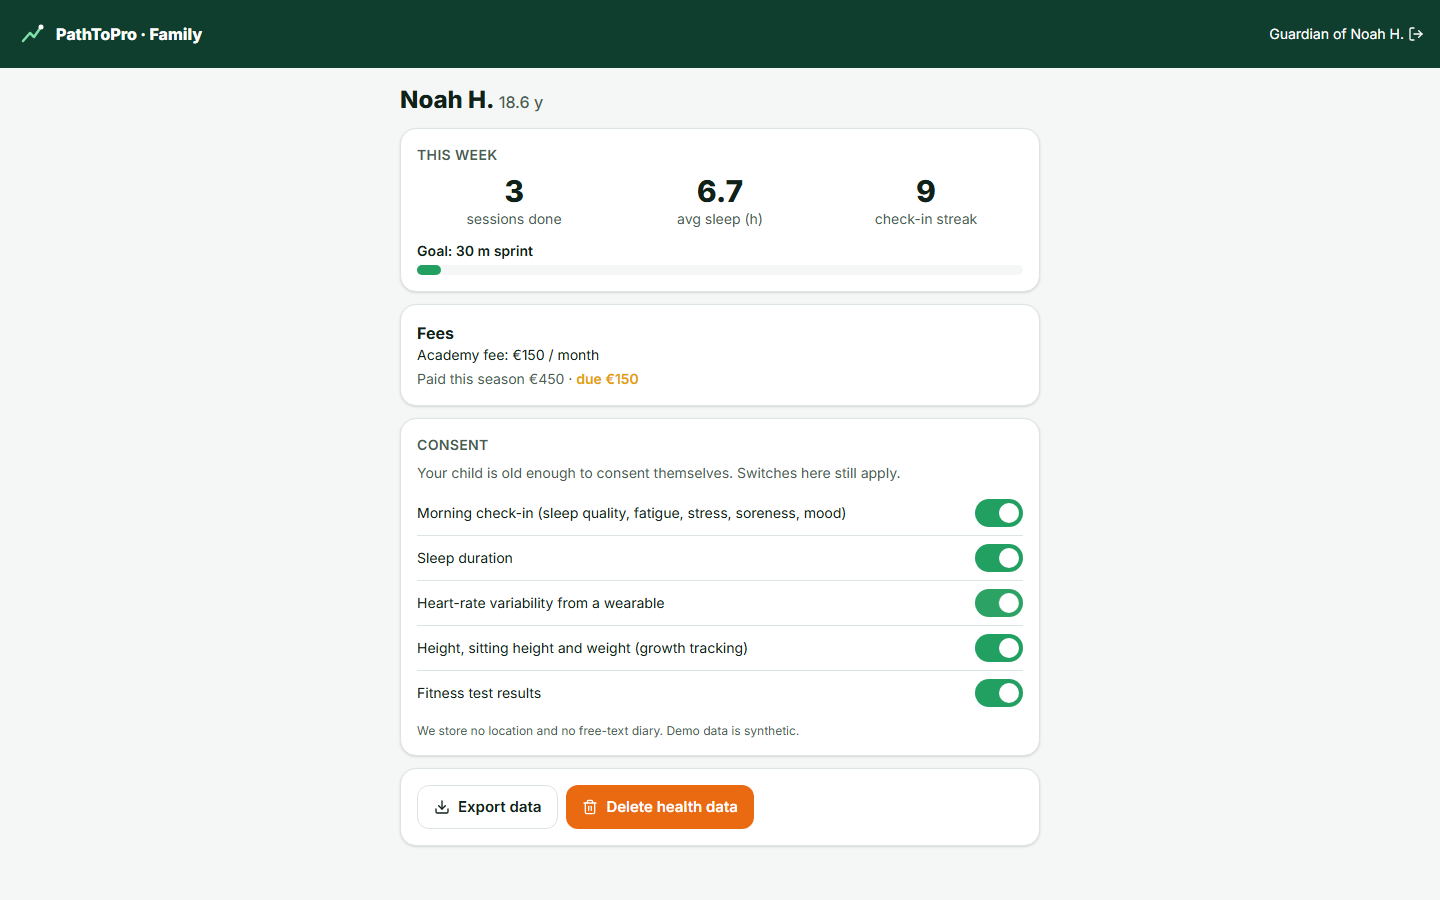
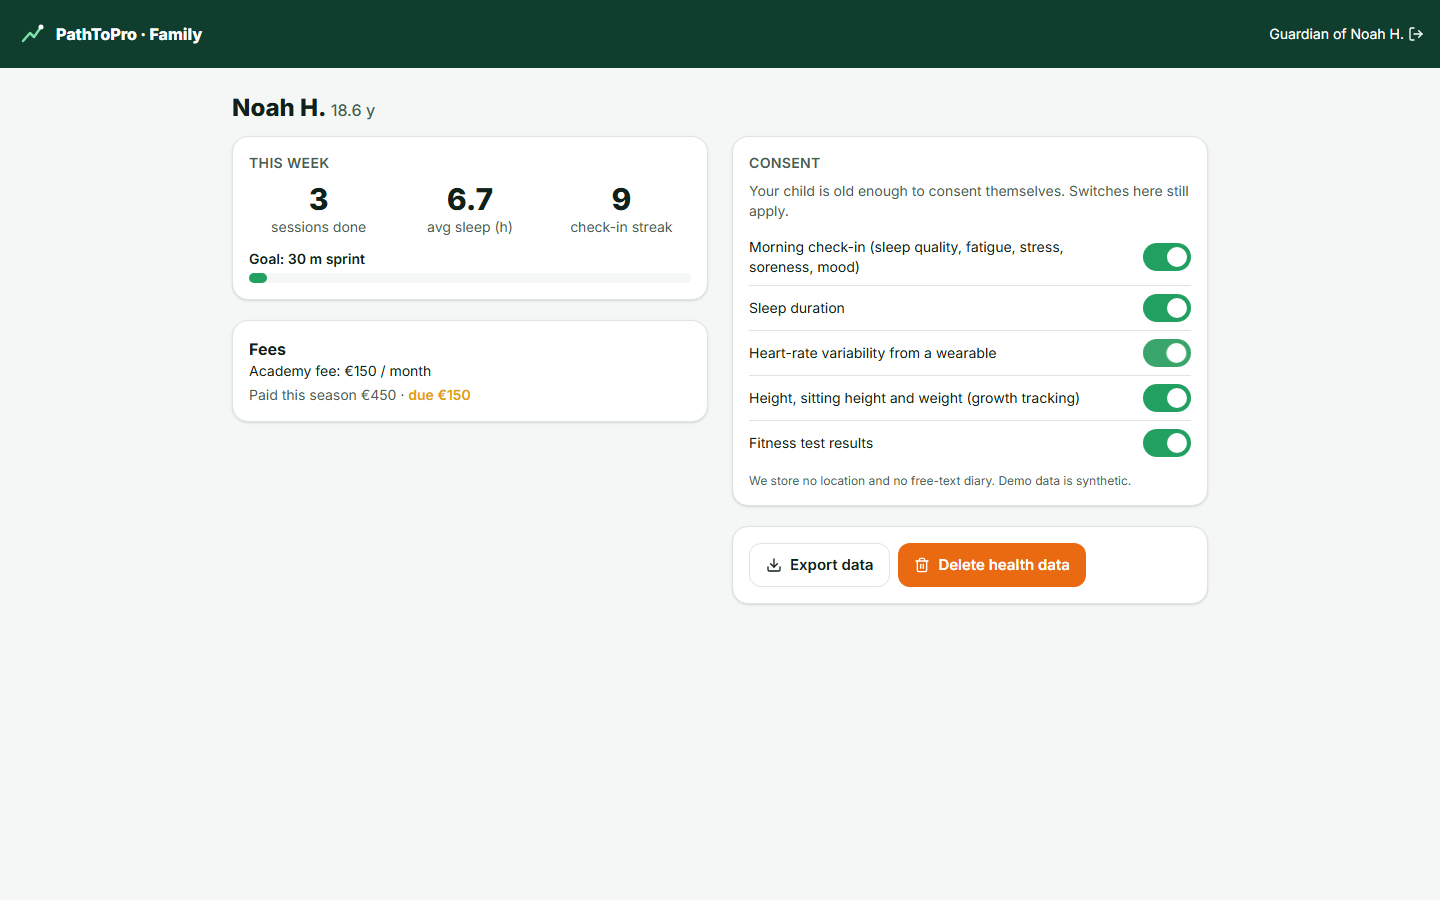
Family view in two columns on a laptop

diff --git a/frontend/src/guardian/GuardianHome.tsx b/frontend/src/guardian/GuardianHome.tsx
@@ -40,7 +40,7 @@ export function GuardianHome() {
           {user?.name} <LogOut className="h-4 w-4" aria-hidden />
         </button>
       </header>
-      <main className="mx-auto max-w-2xl space-y-6 p-4">
+      <main className="mx-auto max-w-2xl space-y-6 p-4 lg:max-w-5xl lg:p-6">
         {kids.loading && <Spinner />}
         {kids.error && <ErrorNote message={kids.error} onRetry={kids.reload} />}
         {kids.data?.map((k) => <ChildPanel key={k.id} child={k} />)}
@@ -96,98 +96,105 @@ function ChildPanel({ child }: { child: Child }) {
           </Button>
         </Card>
       ))}
-      {s && (
-        <Card>
-          <SectionTitle>This week</SectionTitle>
-          <div className="grid grid-cols-3 gap-3 text-center">
-            <div>
-              <p className="text-3xl font-extrabold">{s.sessions_done}</p>
-              <p className="text-ink-2 text-sm">sessions done</p>
-            </div>
-            <div>
-              <p className="text-3xl font-extrabold">{s.avg_sleep_h ?? "–"}</p>
-              <p className="text-ink-2 text-sm">avg sleep (h)</p>
-            </div>
-            <div>
-              <p className="text-3xl font-extrabold">{s.streak}</p>
-              <p className="text-ink-2 text-sm">check-in streak</p>
-            </div>
-          </div>
-          {s.goals.map((g) => (
-            <div key={g.label} className="mt-3">
-              <p className="text-sm font-semibold">Goal: {g.label}</p>
-              <div className="bg-surface-2 mt-1 h-2.5 rounded-full">
-                <div className="bg-pitch-500 h-full rounded-full" style={{ width: `${Math.max(4, g.progress * 100)}%` }} />
+      {/* Wide screens: the week and fees on the left, consent and data on the right */}
+      <div className="space-y-5 lg:grid lg:grid-cols-2 lg:items-start lg:gap-6 lg:space-y-0">
+        <div className="space-y-5">
+          {s && (
+            <Card>
+              <SectionTitle>This week</SectionTitle>
+              <div className="grid grid-cols-3 gap-3 text-center">
+                <div>
+                  <p className="text-3xl font-extrabold">{s.sessions_done}</p>
+                  <p className="text-ink-2 text-sm">sessions done</p>
+                </div>
+                <div>
+                  <p className="text-3xl font-extrabold">{s.avg_sleep_h ?? "–"}</p>
+                  <p className="text-ink-2 text-sm">avg sleep (h)</p>
+                </div>
+                <div>
+                  <p className="text-3xl font-extrabold">{s.streak}</p>
+                  <p className="text-ink-2 text-sm">check-in streak</p>
+                </div>
               </div>
-            </div>
-          ))}
-        </Card>
-      )}
-      {money.data && money.data.contracts.some((c) => c.direction === "income" && !c.ends_on) && (
-        <Card>
-          <p className="font-bold">Fees</p>
-          {money.data.contracts
-            .filter((c) => c.direction === "income" && !c.ends_on)
-            .map((c) => (
-              <p key={c.id} className="text-sm">
-                {c.title}: {eur(c.amount_cents)} / month
+              {s.goals.map((g) => (
+                <div key={g.label} className="mt-3">
+                  <p className="text-sm font-semibold">Goal: {g.label}</p>
+                  <div className="bg-surface-2 mt-1 h-2.5 rounded-full">
+                    <div className="bg-pitch-500 h-full rounded-full" style={{ width: `${Math.max(4, g.progress * 100)}%` }} />
+                  </div>
+                </div>
+              ))}
+            </Card>
+          )}
+          {money.data && money.data.contracts.some((c) => c.direction === "income" && !c.ends_on) && (
+            <Card>
+              <p className="font-bold">Fees</p>
+              {money.data.contracts
+                .filter((c) => c.direction === "income" && !c.ends_on)
+                .map((c) => (
+                  <p key={c.id} className="text-sm">
+                    {c.title}: {eur(c.amount_cents)} / month
+                  </p>
+                ))}
+              <p className="text-ink-2 mt-1 text-sm">
+                Paid this season {eur(money.data.fees_paid_cents)} ·{" "}
+                <span className={money.data.fees_due_cents > 0 ? "text-ready-amber font-semibold" : ""}>due {eur(money.data.fees_due_cents)}</span>
               </p>
-            ))}
-          <p className="text-ink-2 mt-1 text-sm">
-            Paid this season {eur(money.data.fees_paid_cents)} ·{" "}
-            <span className={money.data.fees_due_cents > 0 ? "text-ready-amber font-semibold" : ""}>due {eur(money.data.fees_due_cents)}</span>
-          </p>
-        </Card>
-      )}
+            </Card>
+          )}
+        </div>
 
-      {consent.data && (
-        <Card>
-          <SectionTitle>Consent</SectionTitle>
-          <p className="text-ink-2 mb-2 text-sm">
-            {consent.data.age < 16
-              ? "Your child is under the age of digital consent, so these switches are yours. You can change them any time."
-              : "Your child is old enough to consent themselves. Switches here still apply."}
-          </p>
-          <ul className="divide-[color:var(--line)] divide-y">
-            {consent.data.items.map((i) => (
-              <li key={i.data_type} className="flex items-center justify-between gap-3 py-2">
-                <span className="text-sm">{i.text}</span>
-                <label className="relative inline-flex cursor-pointer items-center">
-                  <input type="checkbox" className="peer sr-only" checked={i.granted} onChange={(e) => toggle(i.data_type, e.target.checked)} aria-label={i.text} />
-                  <span className="peer-checked:bg-pitch-500 peer-focus-visible:ring-pitch-300 h-7 w-12 rounded-full bg-gray-300 transition peer-focus-visible:ring-4" />
-                  <span className="absolute left-1 h-5 w-5 rounded-full bg-white transition peer-checked:translate-x-5" />
-                </label>
-              </li>
-            ))}
-          </ul>
-          <p className="text-ink-2 mt-2 text-xs">We store no location and no free-text diary. Demo data is synthetic.</p>
-        </Card>
-      )}
-      <Card className="flex flex-wrap gap-2">
-        <Button variant="secondary" onClick={() => download(`/api/guardian/children/${child.id}/export`, `pathtopro-${child.name}.json`)}>
-          <Download className="h-4 w-4" aria-hidden /> Export data
-        </Button>
-        {!confirm ? (
-          <Button variant="danger" onClick={() => setConfirm(true)}>
-            <Trash2 className="h-4 w-4" aria-hidden /> Delete health data
-          </Button>
-        ) : (
-          <div className="flex items-center gap-2">
-            <span className="text-sm font-semibold">This cannot be undone.</span>
-            <Button variant="danger" size="sm" onClick={del}>
-              Yes, delete
+        <div className="space-y-5">
+          {consent.data && (
+            <Card>
+              <SectionTitle>Consent</SectionTitle>
+              <p className="text-ink-2 mb-2 text-sm">
+                {consent.data.age < 16
+                  ? "Your child is under the age of digital consent, so these switches are yours. You can change them any time."
+                  : "Your child is old enough to consent themselves. Switches here still apply."}
+              </p>
+              <ul className="divide-[color:var(--line)] divide-y">
+                {consent.data.items.map((i) => (
+                  <li key={i.data_type} className="flex items-center justify-between gap-3 py-2">
+                    <span className="text-sm">{i.text}</span>
+                    <label className="relative inline-flex cursor-pointer items-center">
+                      <input type="checkbox" className="peer sr-only" checked={i.granted} onChange={(e) => toggle(i.data_type, e.target.checked)} aria-label={i.text} />
+                      <span className="peer-checked:bg-pitch-500 peer-focus-visible:ring-pitch-300 h-7 w-12 rounded-full bg-gray-300 transition peer-focus-visible:ring-4" />
+                      <span className="absolute left-1 h-5 w-5 rounded-full bg-white transition peer-checked:translate-x-5" />
+                    </label>
+                  </li>
+                ))}
+              </ul>
+              <p className="text-ink-2 mt-2 text-xs">We store no location and no free-text diary. Demo data is synthetic.</p>
+            </Card>
+          )}
+          <Card className="flex flex-wrap gap-2">
+            <Button variant="secondary" onClick={() => download(`/api/guardian/children/${child.id}/export`, `pathtopro-${child.name}.json`)}>
+              <Download className="h-4 w-4" aria-hidden /> Export data
             </Button>
-            <Button variant="ghost" size="sm" onClick={() => setConfirm(false)}>
-              Cancel
-            </Button>
-          </div>
-        )}
-        {msg && (
-          <p role="status" className="w-full text-sm">
-            {msg}
-          </p>
-        )}
-      </Card>
+            {!confirm ? (
+              <Button variant="danger" onClick={() => setConfirm(true)}>
+                <Trash2 className="h-4 w-4" aria-hidden /> Delete health data
+              </Button>
+            ) : (
+              <div className="flex items-center gap-2">
+                <span className="text-sm font-semibold">This cannot be undone.</span>
+                <Button variant="danger" size="sm" onClick={del}>
+                  Yes, delete
+                </Button>
+                <Button variant="ghost" size="sm" onClick={() => setConfirm(false)}>
+                  Cancel
+                </Button>
+              </div>
+            )}
+            {msg && (
+              <p role="status" className="w-full text-sm">
+                {msg}
+              </p>
+            )}
+          </Card>
+        </div>
+      </div>
     </section>
   );
 }
